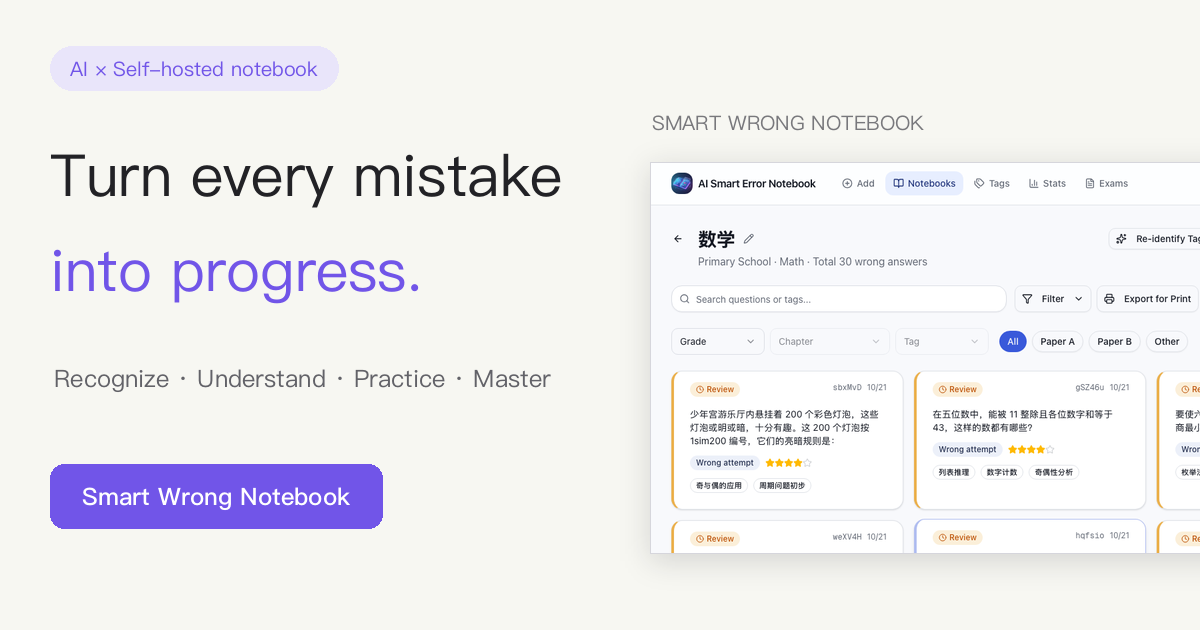
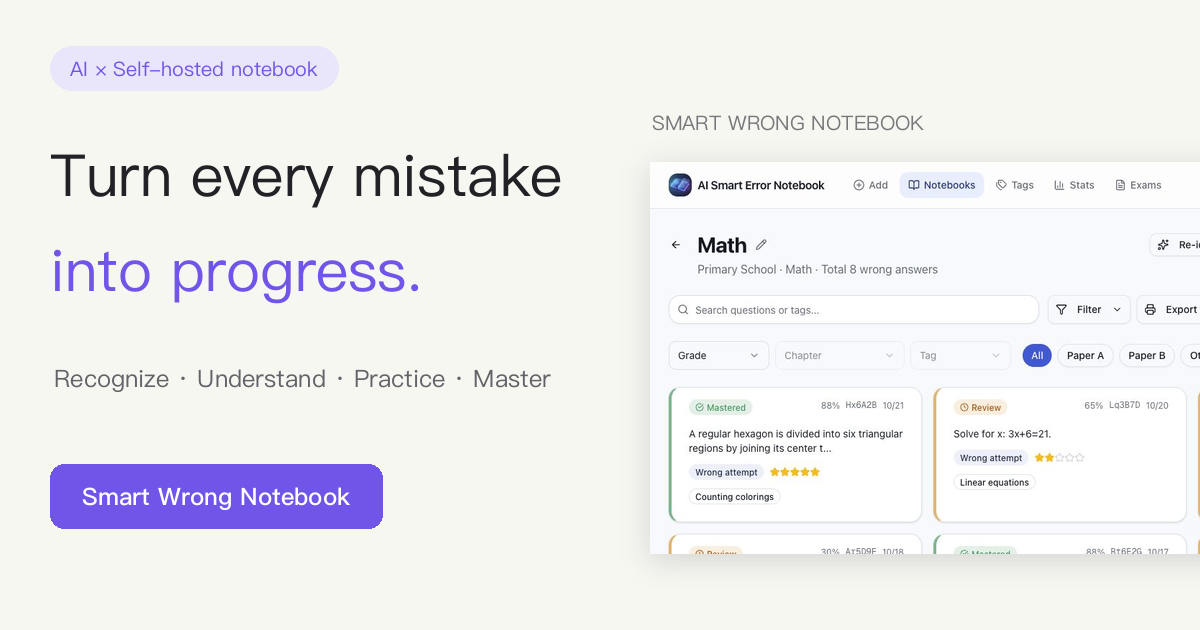
docs: 同步英文题目演示截图与分享图

diff --git a/en/index.html b/en/index.html
@@ -80,10 +80,10 @@
             <div class="floating-tag"><svg class="icon"><use href="#i-sparkle"/></svg> AI connects the dots</div>
             <figure class="hero-window">
               <div class="window-bar"><span class="window-dots"><i></i><i></i><i></i></span><span>Your growing knowledge</span><svg class="icon small"><use href="#i-book"/></svg></div>
-              <button class="image-button" type="button" data-image="notebook" aria-label="Enlarge the real notebook interface"><img class="hero-screenshot" src="../assets/images/en/notebook.webp" width="1140" height="784" alt="A math notebook in the real app, with question cards, difficulty stars, knowledge points and filters" fetchpriority="high"></button>
+              <button class="image-button" type="button" data-image="notebook" aria-label="Enlarge the notebook with English demo questions"><img class="hero-screenshot" src="../assets/images/en/notebook.webp" width="1140" height="712" alt="English math questions in the running app, with difficulty stars, English knowledge points and filters" fetchpriority="high"></button>
             </figure>
             <div class="review-note"><span class="review-check"><svg class="icon"><use href="#i-check"/></svg></span><div><strong>Every practice leaves a trace</strong><span>Answer → assess mastery → keep improving</span></div><svg class="mini-trend" viewBox="0 0 70 38" aria-hidden="true"><path d="m3 32 17-7 12 4 16-18 17-7"/><path d="M53 4h12v12"/></svg></div>
-            <p class="visual-caption">Real app screenshot (English UI) · Click to enlarge</p>
+            <p class="visual-caption">Real app · English questions and interface · Click to enlarge</p>
           </div>
         </div>
         <div class="container promise-strip"><p>Built for steady learning</p><span><svg class="icon"><use href="#i-book"/></svg> Primary · Middle · High school</span><span><svg class="icon"><use href="#i-sparkle"/></svg> Choose your AI provider</span><span><svg class="icon"><use href="#i-shield"/></svg> Desktop · NAS · Server</span><span class="promise-pwa">PWA <small>Opens like an app</small></span></div>
@@ -105,7 +105,7 @@
         <div class="container">
           <div class="section-heading heading-row"><div><p class="eyebrow">THOUGHTFUL TOOLS, REAL UNDERSTANDING</p><h2 id="features-title">More than collecting mistakes: <br>it cares whether you learned.</h2></div><p>From the details of one question to your whole web of knowledge, <br>the tools you need for learning, in one place.</p></div>
           <div class="feature-grid">
-            <article class="feature-card animation-card"><span class="feature-kicker"><svg class="icon"><use href="#i-play"/></svg> Solutions you can watch</span><h3>Abstract steps, <br>made clear at a glance.</h3><p>AI turns the solution into a step-by-step SVG animation, <br>in English or Chinese to match the interface. <br>Pause, seek and replay at your own pace.</p><button class="animation-screenshot image-button" type="button" data-image="svg-animation" aria-label="Enlarge the real SVG animation interface"><img src="../assets/images/en/svg-animation.webp" width="1076" height="592" loading="lazy" alt="SVG animated explanation of a hexagon coloring problem, with the figure, a recursion table and playback progress"><span class="image-overlay"><svg class="icon"><use href="#i-expand"/></svg> See the real explanation</span></button><span class="card-corner-spark" aria-hidden="true">✳</span></article>
+            <article class="feature-card animation-card"><span class="feature-kicker"><svg class="icon"><use href="#i-play"/></svg> Solutions you can watch</span><h3>Abstract steps, <br>made clear at a glance.</h3><p>AI turns the solution into a step-by-step SVG animation, <br>in English or Chinese to match the interface. <br>Pause, seek and replay at your own pace.</p><button class="animation-screenshot image-button" type="button" data-image="svg-animation" aria-label="Enlarge the English SVG animation"><img src="../assets/images/en/svg-animation.webp" width="1088" height="568" loading="lazy" alt="English SVG explanation of a hexagon coloring problem, with an English counting table and playback controls"><span class="image-overlay"><svg class="icon"><use href="#i-expand"/></svg> See the explanation</span></button><span class="card-corner-spark" aria-hidden="true">✳</span></article>
             <article class="feature-card practice-card"><span class="feature-kicker"><svg class="icon"><use href="#i-repeat"/></svg> Practice beyond one question</span><h3>Solve one, <br>then solve them all.</h3><p>Generate fill-in-the-blank or free-response questions on the same knowledge point, at the difficulty you choose, to strengthen old weak spots with new problems.</p><div class="practice-illustration" aria-label="Illustration of similar-question practice"><div class="sample-question"><span>Original · Linear equations</span><strong>3x + 6 = 21</strong><i>This time, understand the properties of equality.</i></div><div class="practice-connector"><svg class="icon"><use href="#i-repeat"/></svg><span>Same concept, new practice</span></div><div class="sample-question variant"><span>Variant · A new angle</span><strong>5x − 8 = 27</strong><i>This time, solve it on your own.</i></div><small class="illustration-label">Illustration · Sample questions</small></div></article>
             <article class="feature-card tags-card"><span class="feature-icon"><svg class="icon"><use href="#i-tag"/></svg></span><h3>A place for every concept.</h3><p>Knowledge points are organized by school stage, subject and chapter. AI tags questions automatically, and you can add your own tags.</p><div class="tag-tree" aria-hidden="true"><span>Math</span><div><span>Geometry</span><div><span>Angles</span><span class="tag-accent">Quadrilaterals</span></div></div></div></article>
             <article class="feature-card print-card"><span class="feature-icon"><svg class="icon"><use href="#i-print"/></svg></span><h3>Organize on screen, practice on paper.</h3><p>Build exams by knowledge point and mastery. Include answers and analyses if you like, then print or save as PDF.</p><div class="paper-preview" aria-hidden="true"><div>My targeted practice <svg class="icon"><use href="#i-book"/></svg></div><span>01 <i></i></span><span>02 <i></i></span><small>Source ID · find the original anytime</small></div></article>
@@ -117,7 +117,7 @@
 
       <section class="section preview-section" id="preview" aria-labelledby="preview-title">
         <div class="container">
-          <div class="section-heading heading-row"><div><p class="eyebrow">A CLOSER LOOK</p><h2 id="preview-title">See it in action.</h2></div><p>The real running app with real study records. <br>Pick a tab to see each step. The interface also comes in English.</p></div>
+          <div class="section-heading heading-row"><div><p class="eyebrow">A CLOSER LOOK</p><h2 id="preview-title">See it in action.</h2></div><p>Captured from the running app with English demo questions and sample study records. <br>Pick a tab to see each step.</p></div>
           <div class="preview-tabs" role="tablist" aria-label="App screenshots">
             <button type="button" role="tab" id="tab-notebook" aria-selected="true" aria-controls="preview-panel" data-preview="notebook"><svg class="icon small"><use href="#i-book"/></svg>Notebook</button>
             <button type="button" role="tab" id="tab-upload" aria-selected="false" aria-controls="preview-panel" data-preview="upload" tabindex="-1"><svg class="icon small"><use href="#i-scan"/></svg>Easy input</button>
@@ -128,9 +128,9 @@
           </div>
           <div class="preview-panel" id="preview-panel" role="tabpanel" aria-labelledby="tab-notebook" tabindex="0">
             <div class="preview-toolbar"><span class="window-dots"><i></i><i></i><i></i></span><span id="preview-window-title">My notebook</span><button type="button" class="preview-expand" id="expand-preview" aria-label="Enlarge the current screenshot"><svg class="icon small"><use href="#i-expand"/></svg><span>Enlarge</span></button></div>
-            <button class="image-button preview-image-button" id="preview-image-button" type="button" aria-label="Enlarge screenshot: My notebook"><img id="preview-image" src="../assets/images/en/notebook.webp" width="1140" height="784" loading="lazy" alt="Question cards with summaries, difficulty stars and knowledge points, with multiple filters"></button>
+            <button class="image-button preview-image-button" id="preview-image-button" type="button" aria-label="Enlarge screenshot: My notebook"><img id="preview-image" src="../assets/images/en/notebook.webp" width="1140" height="712" loading="lazy" alt="English question cards with summaries, difficulty stars, English knowledge points and filters"></button>
           </div>
-          <div class="preview-caption" aria-live="polite"><p id="preview-description">Filter by knowledge point, grade, mastery and A/B paper to quickly find the questions you need to review.</p><span>Real app screenshots · English UI</span></div>
+          <div class="preview-caption" aria-live="polite"><p id="preview-description">Filter by knowledge point, grade, mastery and A/B paper to quickly find the questions you need to review.</p><span>Running app · English demo data</span></div>
           <noscript><p class="noscript-notice">More screenshots: <a href="../assets/images/en/svg-animation.webp">Animations</a> · <a href="../assets/images/en/mastery-history.webp">Mastery</a> · <a href="../assets/images/en/exam-print.webp">Exams</a> · <a href="../assets/images/en/error-stats.webp">Statistics</a></p></noscript>
         </div>
       </section>

diff --git a/assets/site.js b/assets/site.js
@@ -2,19 +2,19 @@
 
 // 英文页面与中文页面共用本脚本，按 <html lang> 选择界面文字。
 const isEnglish = document.documentElement.lang.startsWith("en");
-// 英文页使用 images/en/ 下的英文界面截图
+// 英文页使用 images/en/ 下的英文界面与英文演示内容截图
 const imageDir = isEnglish ? "en/" : "";
 const text = isEnglish
   ? { enlarge: (title) => `Enlarge screenshot: ${title}`, copied: "Command copied. Paste it into your terminal.", copyManually: "Press Ctrl+C / ⌘C to copy the selected command", openNav: "Open navigation", closeNav: "Close navigation" }
   : { enlarge: (title) => `放大${title}截图`, copied: "命令已复制，可粘贴到终端运行", copyManually: "请按 Ctrl+C / ⌘C 复制已选中的命令", openNav: "打开导航", closeNav: "关闭导航" };
 
-// 所有预览素材均来自原项目已脱敏的真实截图。
+// 所有预览素材均采集于原应用；英文版使用独立的英文演示数据。
 const screenshots = isEnglish ? {
-  notebook: { title: "My notebook", alt: "Question cards with summaries, difficulty stars and knowledge points, with multiple filters", description: "Filter by knowledge point, grade, mastery and A/B paper to quickly find the questions you need to review." },
+  notebook: { title: "My notebook", alt: "English question cards with summaries, difficulty stars, English knowledge points and filters", description: "Filter by knowledge point, grade, mastery and A/B paper to quickly find the questions you need to review." },
   upload: { title: "Photo and text input", alt: "Photo upload, manual input, direct entry and clipboard paste on the home page", description: "Upload or drag photos, paste screenshots, or type the question. Turn on review before import to check results before saving." },
-  "svg-animation": { title: "SVG animated explanation", alt: "SVG animated explanation of a hexagon coloring problem, with a recursion table and player controls", description: "The solution becomes a step-by-step SVG animation with pause, seeking, replay and full screen, so you can follow at your own pace." },
-  "mastery-history": { title: "Answer history and mastery", alt: "Variant questions, answer history and an AI mastery estimate under a question", description: "Results from similar-question practice and exams are kept under the original question. Mastery is estimated from actual practice to guide your next review." },
-  "exam-print": { title: "Exam print preview", alt: "Print preview of a real exam with source IDs, answer page toggle, download and print options", description: "Build practice exams around weak knowledge points, include an answer page, download HTML, or print and save as PDF from the browser." },
+  "svg-animation": { title: "SVG animated explanation", alt: "English SVG explanation of a hexagon coloring problem, with an English counting table and player controls", description: "The solution becomes a step-by-step SVG animation with pause, seeking, replay and full screen, so you can follow at your own pace." },
+  "mastery-history": { title: "Answer history and mastery", alt: "An English variant question, sample answer history and a mastery estimate", description: "Results from similar-question practice and exams are kept under the original question. Mastery is estimated from practice to guide your next review." },
+  "exam-print": { title: "Exam print preview", alt: "Print preview of an English demo exam with source IDs, answer page toggle, download and print options", description: "Build practice exams around weak knowledge points, include an answer page, download HTML, or print and save as PDF from the browser." },
   "error-stats": { title: "Statistics", alt: "Charts of mistake count, mastered count, subject distribution and monthly trend", description: "Review mistake count, mastery rate, subject distribution and monthly trend; practice statistics also show accuracy and distribution." },
 } : {
   notebook: { title: "我的错题本", alt: "错题卡片展示题目摘要、难度星级与知识点，并支持多维度筛选", description: "按知识点、年级、掌握情况和 A/B 卷筛选，把需要复习的题目快速找出来。" },

diff --git a/ASSETS.md b/ASSETS.md
@@ -1,10 +1,12 @@
 # 素材来源
 
-官网根据 `../wrong-notebook` 当前 `main` 分支制作；配图于 2026-10-22 随原项目 `doc/screenshots/` 一起更新为浅色模式，并新增英文界面版本。
+官网根据 `../wrong-notebook` 当前 `main` 分支制作；配图于 2026-10-22 随原项目 `doc/screenshots/` 更新。英文版使用英文演示题目重新截图，包含英文解析、知识点、动画文字、作答记录和试卷。
 
 ## 真实应用截图
 
-中文页素材来源为原项目 `doc/screenshots/` 的对应 PNG，英文页（`assets/images/en/`）来源为 `doc/screenshots/en/` 的同名英文界面 PNG。均为浅色模式，用户名替换为「学生」/「Student」，不包含实例访问地址或登录凭据。官网用 `cwebp -q 88` 转换为 WebP，保持画面内容与尺寸。
+中文页素材来源为原项目 `doc/screenshots/` 的对应 PNG，英文页（`assets/images/en/`）来源为 `doc/screenshots/en/` 的同名英文 PNG。均为浅色模式，不包含实例访问地址或登录凭据。中文截图的用户名替换为「学生」；英文截图使用独立的 `Student` 演示用户，题目、练习历史、统计和掌握估计均为演示数据。官网用 `cwebp -q 88` 转换为 WebP，保持画面内容与尺寸。
+
+英文内容素材见原项目 `doc/screenshots/en/demo-questions.json` 与 `hexagon-coloring.svg`。英文标签用于演示；应用自带的知识点库仍遵循中国 K-12 课程体系。
 
 | 官网素材（英文页为 `assets/images/en/` 同名文件） | 原项目素材（英文为 `doc/screenshots/en/`） | 展示用途 |
 | --- | --- | --- |
@@ -15,7 +17,7 @@
 | `assets/images/exam-print.webp` | `doc/screenshots/exam-print.png` | 打印预览与导出 |
 | `assets/images/error-stats.webp` | `doc/screenshots/error-stats.png` | 错题统计 |
 
-更新时中英文两套同时更新，使用浅色模式截图，重新核对截图中的用户名、邮箱、内部地址与凭据，并同步替代文本、说明及对应原项目功能。
+更新时使用浅色模式，等待图表和过渡动画完成，重新核对截图中的用户名、邮箱、内部地址与凭据，并同步替代文本、说明及对应原项目功能。英文版须检查题干、答案、解析、知识点、动画内嵌文字、试卷标题和变式题均为英文，不能仅切换界面语言。涉及两种语言的功能变化同步更新两套素材；仅修正某种语言的内容时更新对应素材，并重新生成该语言的分享图。
 
 ## 其他素材
 

diff --git a/README.md b/README.md
@@ -58,6 +58,6 @@ scripts/check_site.py       资源、锚点、ARIA 与子路径检查
 
 功能说明以原项目的 README 和实现为依据。修改页面内容时，中文和英文页面需同步更新。更新页面时，先核对实际能力，避免把示意题目、AI 评估或界面中的个人统计表述为产品效果承诺。
 
-截图于 2026-10-22 采集于原应用，由原项目提供，均为浅色模式；中文页使用中文界面截图，英文页使用 `assets/images/en/` 下的英文界面截图。本官网将 PNG 转为 WebP，并复用了应用图标。具体来源与更新方式见 [ASSETS.md](ASSETS.md)。
+截图于 2026-10-22 采集于原应用，均为浅色模式；中文页使用中文界面截图，英文页使用 `assets/images/en/` 下以英文题目、答案、解析、知识点、动画和试卷内容重新拍摄的截图。英文用户及作答记录为独立的演示数据。本官网将 PNG 转为 WebP，并复用了应用图标。具体来源与更新方式见 [ASSETS.md](ASSETS.md)。
 
 项目应用基于 [wttwins/wrong-notebook](https://github.com/wttwins/wrong-notebook) 扩展，官网页脚保留了上游致谢。
